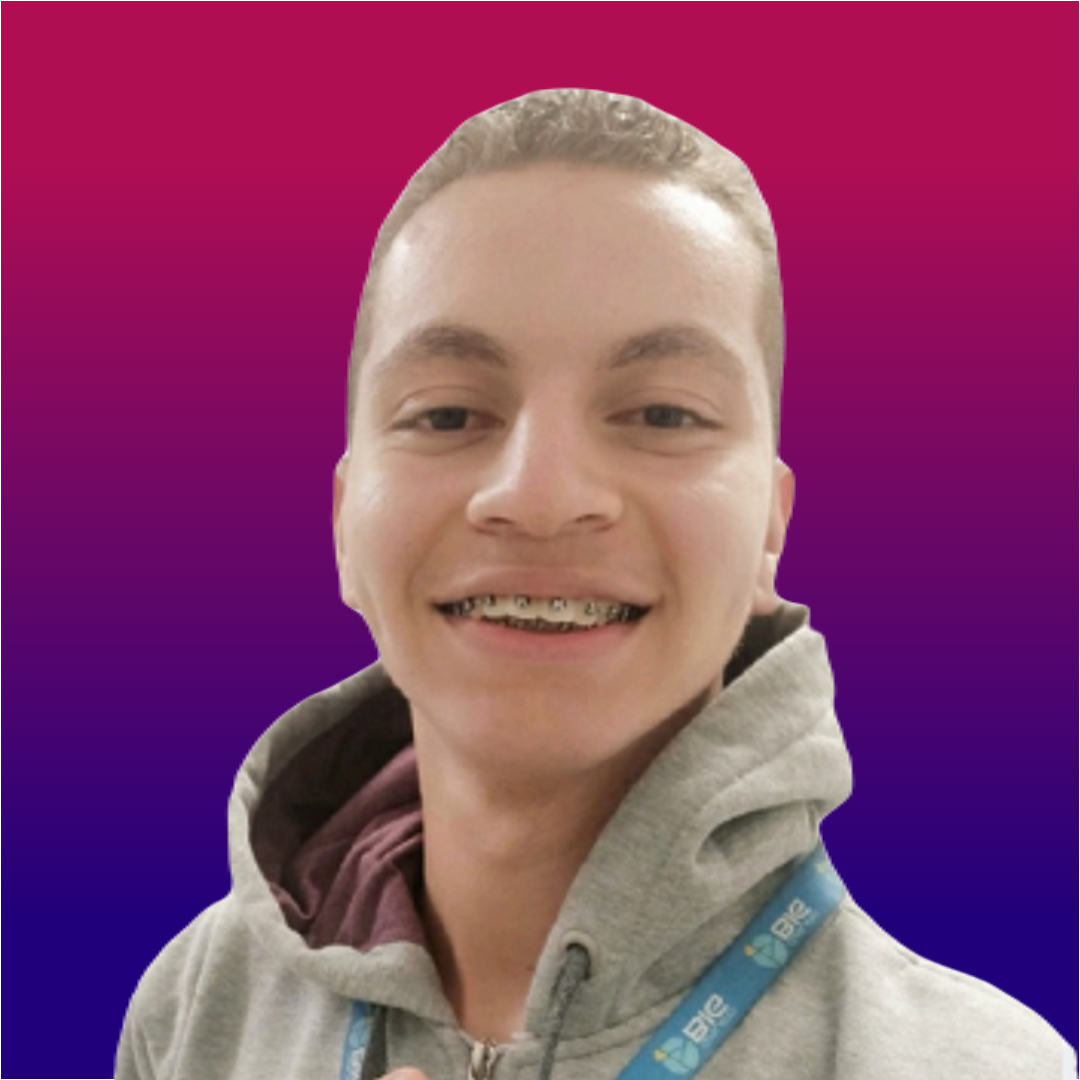
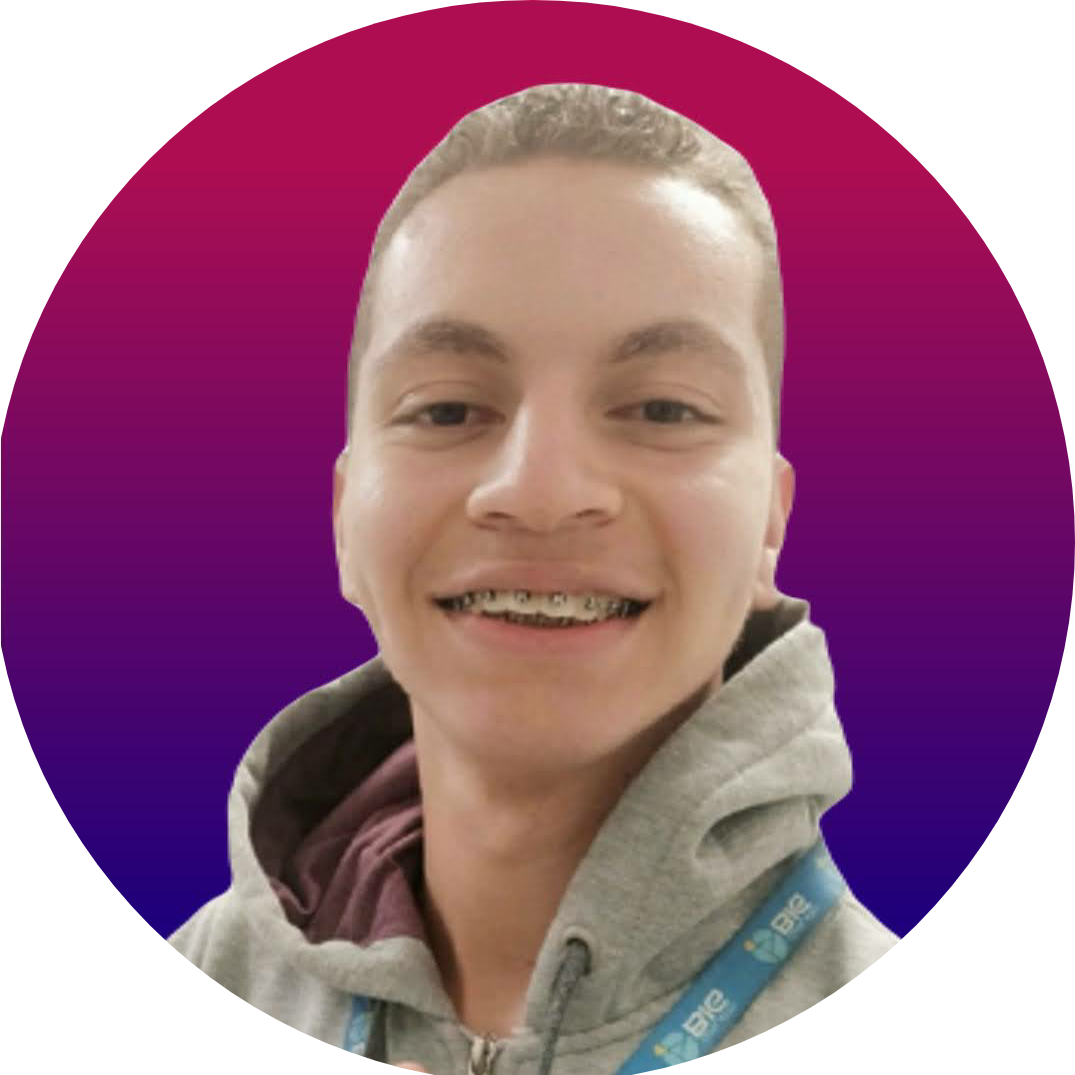
cover update
mudança na foto de perfil e capa dos projetos, agora com link dos dois disponíveis no momento.

diff --git a/index.html b/index.html
@@ -1,6 +1,7 @@
 <html>
     <head>
         <meta charset="utf-8">
+        <meta name="description" content="Vinicius Eduardo - Desenvolvedor de 22 anos, Html, Css, Javascript, Python e MySql!">
         <title>Vinicius Eduardo</title>
         <link rel="stylesheet" href="style.css">
     </head>
@@ -27,10 +28,10 @@
                 <h2>Projetos</h2>
                 <table>
                     <tr>
-                        <td><img src="img/tumbProjetosBETA.jpg" class="imgTabela">
-                            <p>Projeto 01</p></td>
-                        <td><img src="img/tumbProjetosBETA.jpg" class="imgTabela">
-                            <p>Projeto 02</p></td>
+                        <td><a href="https://meucontroledefrota.000webhostapp.com/index.html" target="_blank"><img src="img/controledeveiculos.png" class="imgTabela">
+                            <p>Controle de Frota</p></a></td>
+                        <td><a href="https://vinni16.github.io/Projeto-10---Cadastro-Dev/" target="_blank"><img src="img/cadastrodev.png" class="imgTabela">
+                            <p>Cadastro Dev</p></a></td>
                         <td><img src="img/tumbProjetosBETA.jpg" class="imgTabela">
                             <p>Projeto 03</p></td>
                     </tr>
@@ -50,7 +51,7 @@
     <section id="secao2">    
             <footer>
                 <h3>Sobre</h3>
-                <p>21 anos, moro em Cajamar/SP, atualmente cursando Analise e Desenvolvimento de Sitemas,<br>
+                <p>22 anos, atualmente cursando Analise e Desenvolvimento de Sitemas,<br>
                     possuo conhecimento em HTML, CSS, JavaScrip, Python e MySql.<br>
                     Foco em desenvolvimento web e python, tenho como objetivo entrar profissionalmente na área<br>
                     e trilhar minha carreira como dev.</p>

diff --git a/style.css b/style.css
@@ -72,10 +72,11 @@ table {
 table tr {
     text-align: center;
 }
-table tr td { 
+table tr td a { 
     height: 300px;
     width: 400px;
     background-color: blueviolet;
+    text-decoration: none;
 }
 table tr td:hover { /*Animação ao passar o mouse*/
     transition: 0.25s;
